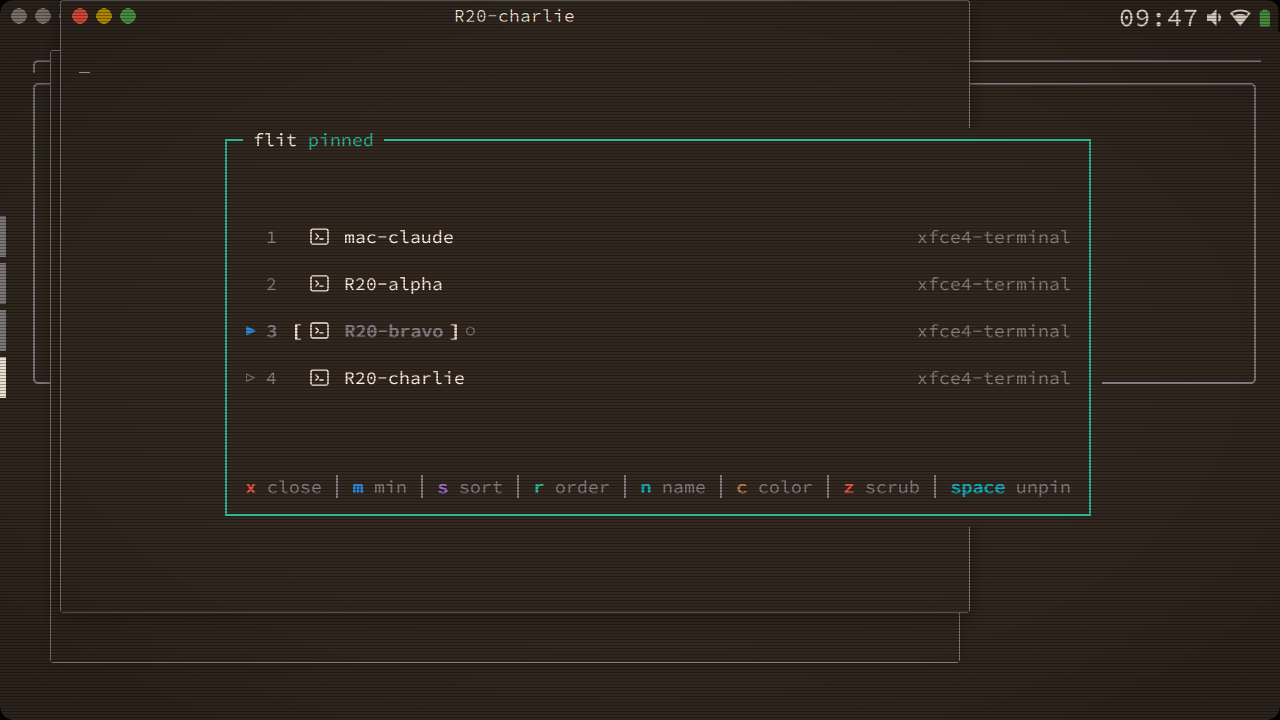
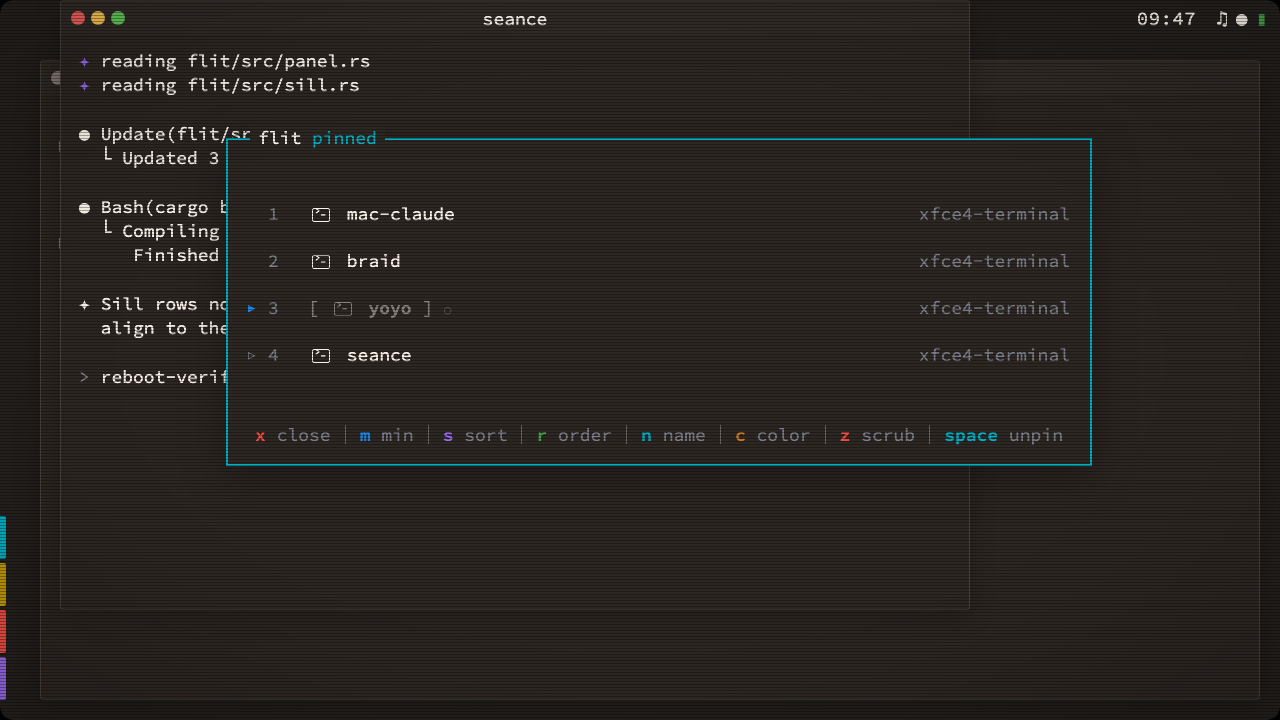
writing/flit: clean frames, synthetic rig off the real palette and geometry, CRT pass
Claude-Session: https://claude.ai/code/session_01PVNbsCaJKUSfZcQSs8ePCt

diff --git a/writing/flit.html b/writing/flit.html
@@ -31,18 +31,18 @@
     </header>
     <p>I carry a ClockworkPi uConsole: a five-inch ARM Linux handheld with a real keyboard, a trackball, and a full desktop on 1280x720. It is a wonderful object and the stock desktop on it is unusable. Every widget assumes a 27-inch monitor. The window switcher is a grid of thumbnails too small to read and too big for the screen, the taskbar eats a strip you can&#x27;t spare, and the status tray is a row of icons drawn for a mouse pointer you don&#x27;t have. Nobody was going to fix that for me. So I wrote the desktop myself, in Rust, and the piece I live in most is the window switcher. It&#x27;s called flit.</p>
     <p>The whole thing started from one sentence I kept saying out loud: <span class="hl-t">on this screen every pixel is rent</span>. Everything that follows is a consequence of taking that literally.</p>
-    <figure class="fig"><img src="assets/flit-pinned.png" alt="flit pinned open over seven terminal windows on the uConsole, dark mode, with the sill nubbins down the left edge" loading="lazy" width="1280" height="720"><figcaption><b>01</b> flit, pinned, seven windows deep. Rows are number, icon, session name, app class. The footer is every action you can take from the keyboard.</figcaption></figure>
+    <figure class="fig"><img src="assets/flit-pinned.png" alt="flit pinned open over seven terminal windows on the uConsole, dark mode, with the sill nubbins down the left edge" loading="lazy" width="1280" height="720"><figcaption><b>01</b> flit, pinned, seven sessions deep. Rows are number, icon, session name, app class. The footer is every action you can take from the keyboard.</figcaption></figure>
     <h2><span class="h2-ix">01</span>a column, not a grid</h2>
     <p>flit is an overlay column: one row per window, tab to walk it, a digit to jump straight to a row. No previews. A preview of a terminal at thumbnail size is a grey rectangle, and I already know what my terminal looks like. Each row is a number, the app icon, the session name I gave the window, and its app class off to the right. The footer is the whole verb set as single keys: close, minimize, sort, reorder, rename, recolor, scrub back through history. Press space and the panel pins open so you can work the list instead of flicking through it. Your hands never leave the keyboard.</p>
     <p>The color is the part people don&#x27;t expect. The desktop has an ombre palette, and every window session gets a named color from it. In flit the focused window renders in full ink, its neighbours in their own session colors, and anything further out fades to slate. So the column reads as depth before you read a single word on it: <span class="sq-t">where you are in the stack is a gradient, not a number</span>.</p>
     <figure class="fig"><img src="assets/flit-color-wheel.png" alt="the flit recolor wheel: the focused row sits mid-wheel with named palette colors fading above and below it" loading="lazy" width="1280" height="720"><figcaption><b>02</b> Recolor. The palette is a wheel and the row you are on sits in the middle of it. Spin, apply, or pin and keep going.</figcaption></figure>
     <p>When you have more windows than rows, flit doesn&#x27;t paginate. Buffer rows at the top and bottom scroll smoothly and the entries at the edges fade out, so you get a spatial sense of how deep the stack goes and in which direction there is more. Minimized windows stay put in the column with a small marker instead of being shuffled off into a separate group, because losing your place in the list is worse than seeing one dimmed row.</p>
-    <figure class="fig"><img src="assets/flit-minimized.png" alt="flit with the focused row dimmed and marked minimized while keeping its place in the list" loading="lazy" width="1280" height="720"><figcaption><b>03</b> Minimize in place. Row three is minimized, dimmed, marked, and still row three.</figcaption></figure>
+    <figure class="fig"><img src="assets/flit-minimized.png" alt="flit with the focused row dimmed and marked minimized while keeping its place in the list" loading="lazy" width="1280" height="720"><figcaption><b>03</b> Minimize in place. yoyo is minimized, dimmed, marked, and still row three.</figcaption></figure>
     <div class="orn" aria-hidden="true"><i></i><i></i><i></i></div>
     <h2><span class="h2-ix">02</span>the taskbar is the same rows</h2>
     <p>Then the taskbar went. The stock panel was a different program with its own idea of window order, and the two disagreed constantly. I replaced it with two surfaces that live inside the flit daemon itself. The <em>sill</em> is a thin nubbin strip down the left edge, one nubbin per window, and the <em>crest</em> is a click-through cluster of status glyphs -- clock, wifi, battery, bluetooth, volume -- tucked into the corner of the title bar band where nothing else needed the space. One process owns all of it.</p>
     <p>That one-process decision is the whole trick. The sill and the flit column share the same row geometry, so <span class="hl-c">they line up pixel for pixel by construction</span>, not by tuning. Reorder a window on the sill and flit follows instantly, because there is no second copy of the order to fall out of sync. The daemon publishes the taskbar order as an X property, so anything else on the desktop that cares can read the same truth.</p>
-    <figure class="fig"><img src="assets/flit-sill-light.png" alt="flit in light mode with three windows, the sill nubbins on the left edge lined up with the panel rows" loading="lazy" width="1280" height="720"><figcaption><b>04</b> Light mode. The three sill nubbins on the left edge are the same three rows in the panel, same geometry, same order.</figcaption></figure>
+    <figure class="fig"><img src="assets/flit-sill-light.png" alt="flit in light mode with three windows, the sill nubbins on the left edge lined up with the panel rows" loading="lazy" width="1280" height="720"><figcaption><b>04</b> Light mode. The three sill nubbins on the left edge are the same three rows in the panel, same geometry, same order, each in its session color.</figcaption></figure>
     <figure class="fig"><img src="assets/flit-crest.png" alt="the crest status glyphs magnified: clock, wifi bars, a teal battery, and a bluetooth ring" loading="lazy" width="700" height="170"><figcaption><b>05</b> The crest, zoomed: clock, signal, battery, bluetooth. Drawn to sit inside the title-bar band so it costs no rows.</figcaption></figure>
     <p>Retiring the old panel was reversible on purpose: a user-level autostart override, package left installed and held. A rule I keep for everything on this device is that <span class="uc-c">the stock system has to be one config change away at all times</span>, because I am the only person who can fix it and I am sometimes on a train.</p>
     <h2><span class="h2-ix">03</span>what the hardware taught me</h2>
